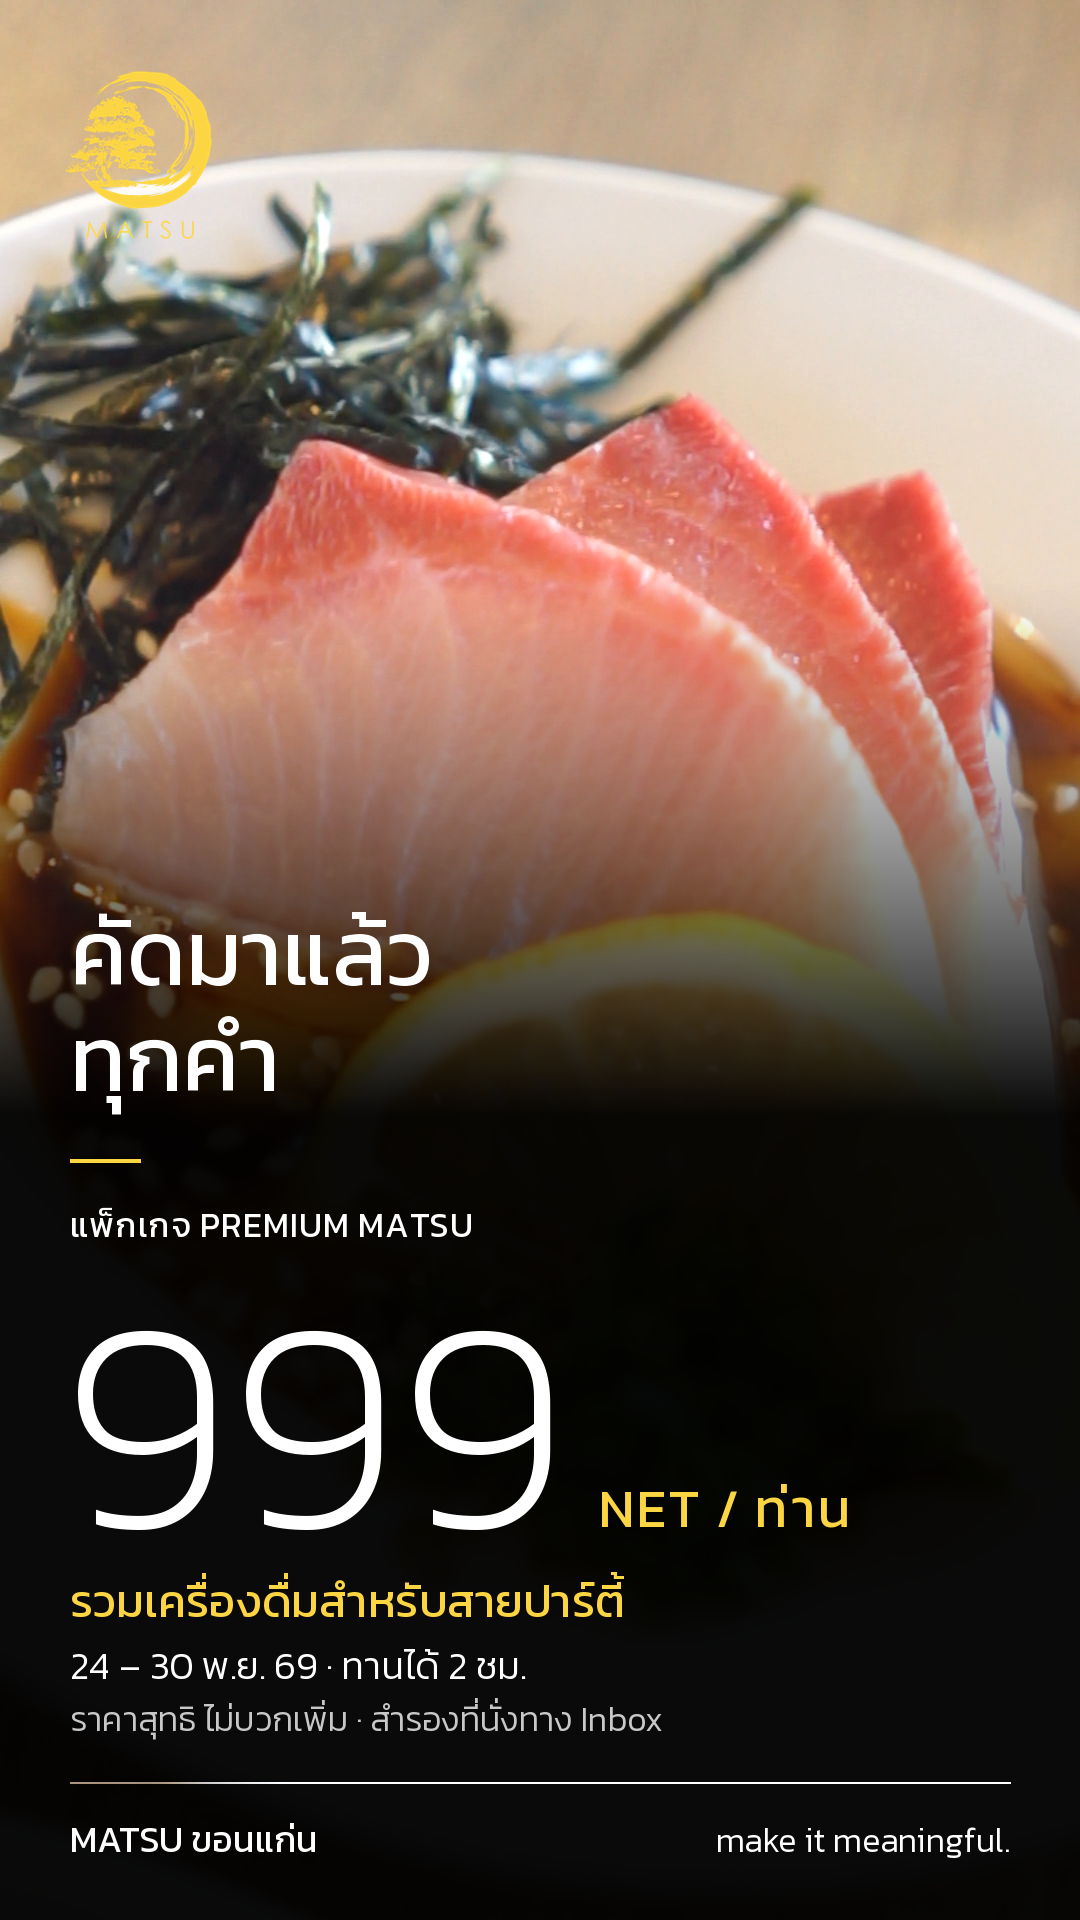
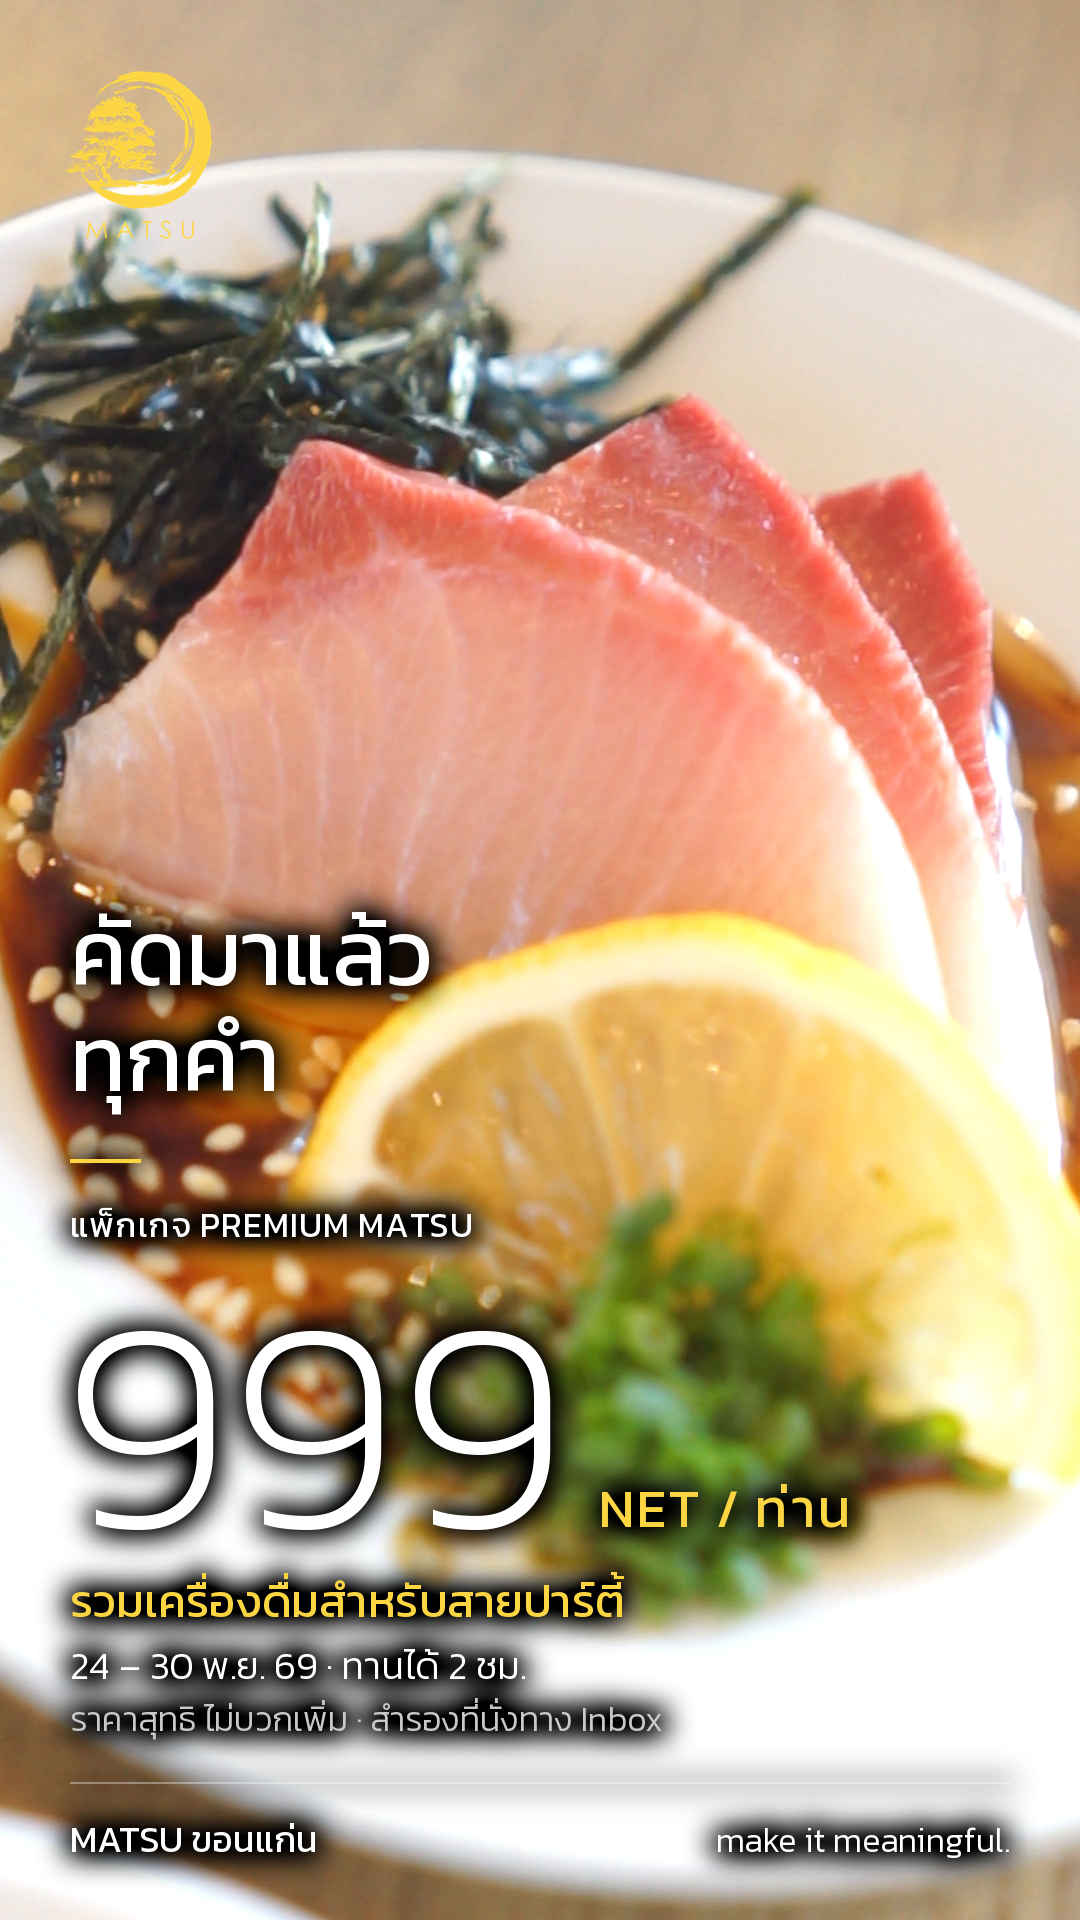
MATSU 999 price card: remove black gradient, use soft text shadow
Claude-Session: https://claude.ai/code/session_01VJGZCka7sZHWdc5sz34iZT

diff --git a/CLAUDE.md b/CLAUDE.md
@@ -97,3 +97,4 @@
 - Premium 999 คลิป 15 วิ 4 คลิปเสร็จ (render_999_short.py เลข 2–5): 02 หนาวนี้มีนัด / 03 999 ได้อะไรบ้าง (ป้ายเมนู ฮามาจิ แซลมอน หอยเชลล์ เท่าที่ยืนยันได้) / 04 นัดเพื่อน / 05 2 วันสุดท้าย (ตัดเร็ว 133 BPM) ทั้ง 2 สาขาใน promo999_out/{khonkaen,ubon}/ text_card ย่อขนาดเองถ้าบรรทัดยาวเกินจอ รอผู้ใช้ติชม
 - Premium 999: แก้ "มัตสึ" → "MATSU" ในข้อความ (คลิป 04 "นัดกันที่ MATSU ไหม?") ข้อความทุกคลิปใช้ชื่อร้านเป็น MATSU ตัวอังกฤษ
 - Premium 999: ทุกคลิปปิดท้ายเพิ่มฉากโลโก้ MATSU ใหญ่กลางจอ + "สาขา…" + make it meaningful. 2 วิ (promo999.logo_card, build รับ tail=) ต่อจากฉากราคาที่สั้นลง 2 วิ ความยาวคลิปเท่าเดิม ทำใหม่ครบ 10 ไฟล์
+- Premium 999: ฉากราคาเอาแถบไล่สีดำออก (ผู้ใช้สั่ง) ใช้เงาจาง ๆ ใต้ตัวหนังสือแทน (promo999.end_overlay) กำลังทำใหม่ 10 ไฟล์
